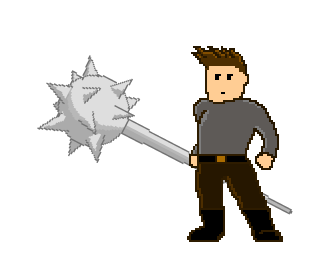
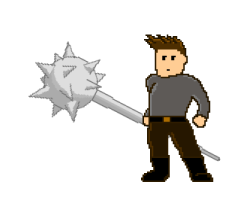
BattleScreenUpdates

diff --git a/NotMyTime/GameStateManagementSample/Screens/UnsereScreens/BattleScreen.cs b/NotMyTime/GameStateManagementSample/Screens/UnsereScreens/BattleScreen.cs
@@ -83,6 +83,7 @@ namespace GameStateManagement
 
         bool battleOver = false;
 
+        int magicPercentage = 20;
         /*  MAGIC ANIMATION LOGIC */
         bool magicAnimationRunning = false;
 
@@ -128,6 +129,7 @@ namespace GameStateManagement
             this.enemyName = enemy;
 
             // TODO: MainChar wird mitgegeben + WeaponType wird mitgegeben
+            if(mainChar==null) mainChar = new MainFighter("Bruce", 100, 50, 5, 10, 10, 15);
             this.weaponType = mainChar.currentWeaponID;
 
             MainStandinPosition = new Vector2(1216, 540);
@@ -184,16 +186,6 @@ namespace GameStateManagement
             //TO DO Richtige Auswahl des Gegners mit if schleifen
             LoadEnemyTexture();
 
-
-
-            // A real game would probably have more content than this sample, so
-            // it would take longer to load. We simulate that by delaying for a
-            // while, giving you a chance to admire the beautiful loading screen.
-            //Thread.Sleep(1000);
-
-            // once the load has finished, we use ResetElapsedTime to tell the game's
-            // timing mechanism that we have just finished a very long frame, and that
-            // it should not try to catch up.
             ScreenManager.Game.ResetElapsedTime();
         }
 
@@ -443,7 +435,7 @@ namespace GameStateManagement
             {
                 if (enemy.isAlive())
                 {
-                    if (randomAttackPercentage < 80)
+                    if (randomAttackPercentage < 100 - magicPercentage)
                         EnemyNormalAttack(main, enemy, false);
                     else
                         EnemyMagicAttack(main, enemy, false);
@@ -464,7 +456,7 @@ namespace GameStateManagement
         {
             if (firstAttackAnimation)
             {
-                if (randomAttackPercentage < 80)
+                if (randomAttackPercentage < 100 - magicPercentage)
                     EnemyNormalAttack(main, enemy, true);
                 else
                     EnemyMagicAttack(main, enemy, true);
@@ -820,7 +812,7 @@ namespace GameStateManagement
                     EnemyActualPosition = new Vector2(-40, 480);
                     break;
                 case "knightmaster":
-                    enemy = new EnemyFighter("Knightmaster", 5, 125, 50, 25, 5, 15, 5, 106, 100);
+                    enemy = new EnemyFighter("Knightmaster", 5, 125, 50, 25, 5, 15, 5, 106, 120);
                     EnemyStandingPosition = new Vector2(560, 480);
                     EnemyActualPosition = new Vector2(-40, 480);
                     break;
@@ -836,7 +828,23 @@ namespace GameStateManagement
                     break;
 
                 //World3
-
+                case "skeleton":
+                    enemy = new EnemyFighter("Burning Skeleton", 8, 100, 100, 40, 0, 30, 25, 200, 250);
+                    EnemyStandingPosition = new Vector2(560, 415);
+                    EnemyActualPosition = new Vector2(-40, 415);
+                    magicPercentage = 40;
+                    break;
+                case "evilknight":
+                    enemy = new EnemyFighter("Knight of the Death", 9, 250, 100, 35, 5, 10, 15, 106, 100);
+                    EnemyStandingPosition = new Vector2(560, 460);
+                    EnemyActualPosition = new Vector2(-40, 460);
+                    magicPercentage = 40;
+                    break;
+                case "deathbringer":
+                    enemy = new EnemyFighter("DeathBringer", 10, 750, 250, 50, 10, 30, 30, 200, 250);
+                    EnemyStandingPosition = new Vector2(560, 315);
+                    EnemyActualPosition = new Vector2(-40, 315);
+                    break;
 
                 default:
                     enemy = new EnemyFighter("Stony", 1, 100, 100, 10, 10, 10, 10, 50, 25);
@@ -880,7 +888,15 @@ namespace GameStateManagement
 
 
                 //World3
-
+                case "skeleton":
+                    enemy.Model = content.Load<Texture2D>("Battle/Enemy/skeleton");
+                    break;
+                case "evilknight":
+                    enemy.Model = content.Load<Texture2D>("Battle/Enemy/evilknight");
+                    break;
+                case "deathbringer":
+                    enemy.Model = content.Load<Texture2D>("Battle/Enemy/deathbringer");
+                    break;
 
                 default:
                     enemy.Model = content.Load<Texture2D>("Hohlenmensch_Right");
@@ -920,6 +936,15 @@ namespace GameStateManagement
                     break;
 
                 //World3
+                case "skeleton":
+                    spriteBatch.Draw(enemy.Model, EnemyActualPosition, null, Color.White, 0f, new Vector2(), 1f, SpriteEffects.None, 0f);
+                    break;
+                case "evilknight":
+                    spriteBatch.Draw(enemy.Model, EnemyActualPosition, null, Color.White, 0f, new Vector2(), 1f, SpriteEffects.None, 0f);
+                    break;
+                case "deathbringer":
+                    spriteBatch.Draw(enemy.Model, EnemyActualPosition, null, Color.White, 0f, new Vector2(), 0.75f, SpriteEffects.None, 0f);
+                    break;
 
                 default:
                     spriteBatch.Draw(enemy.Model, EnemyActualPosition, null, Color.White, 0f, new Vector2(), 1.2f, SpriteEffects.None, 0f);
@@ -942,12 +967,20 @@ namespace GameStateManagement
                     break;
                 case 2: //Schwert
                     mainChar.Model = content.Load<Texture2D>("Battle/figureweapon2");
+                    MainStandinPosition.Y -= 45;
+                    MainActualPosition.Y -= 45;
+                    MainStandinPosition.X -= 50;
+                    MainActualPosition.X -= 50;
                     break;
                 case 3: //Morgen
                     mainChar.Model = content.Load<Texture2D>("Battle/figureweapon3");
+                    MainStandinPosition.Y -= 50;
+                    MainActualPosition.Y -= 50;
+                    MainStandinPosition.X -= 50;
+                    MainActualPosition.X -= 50;
                     break;
                 default: //Hand
-                    mainChar.Model = content.Load<Texture2D>("Battle/figureweapon-1");            
+                    mainChar.Model = content.Load<Texture2D>("Battle/figureweapon-1");
                     break;
             }
         }
